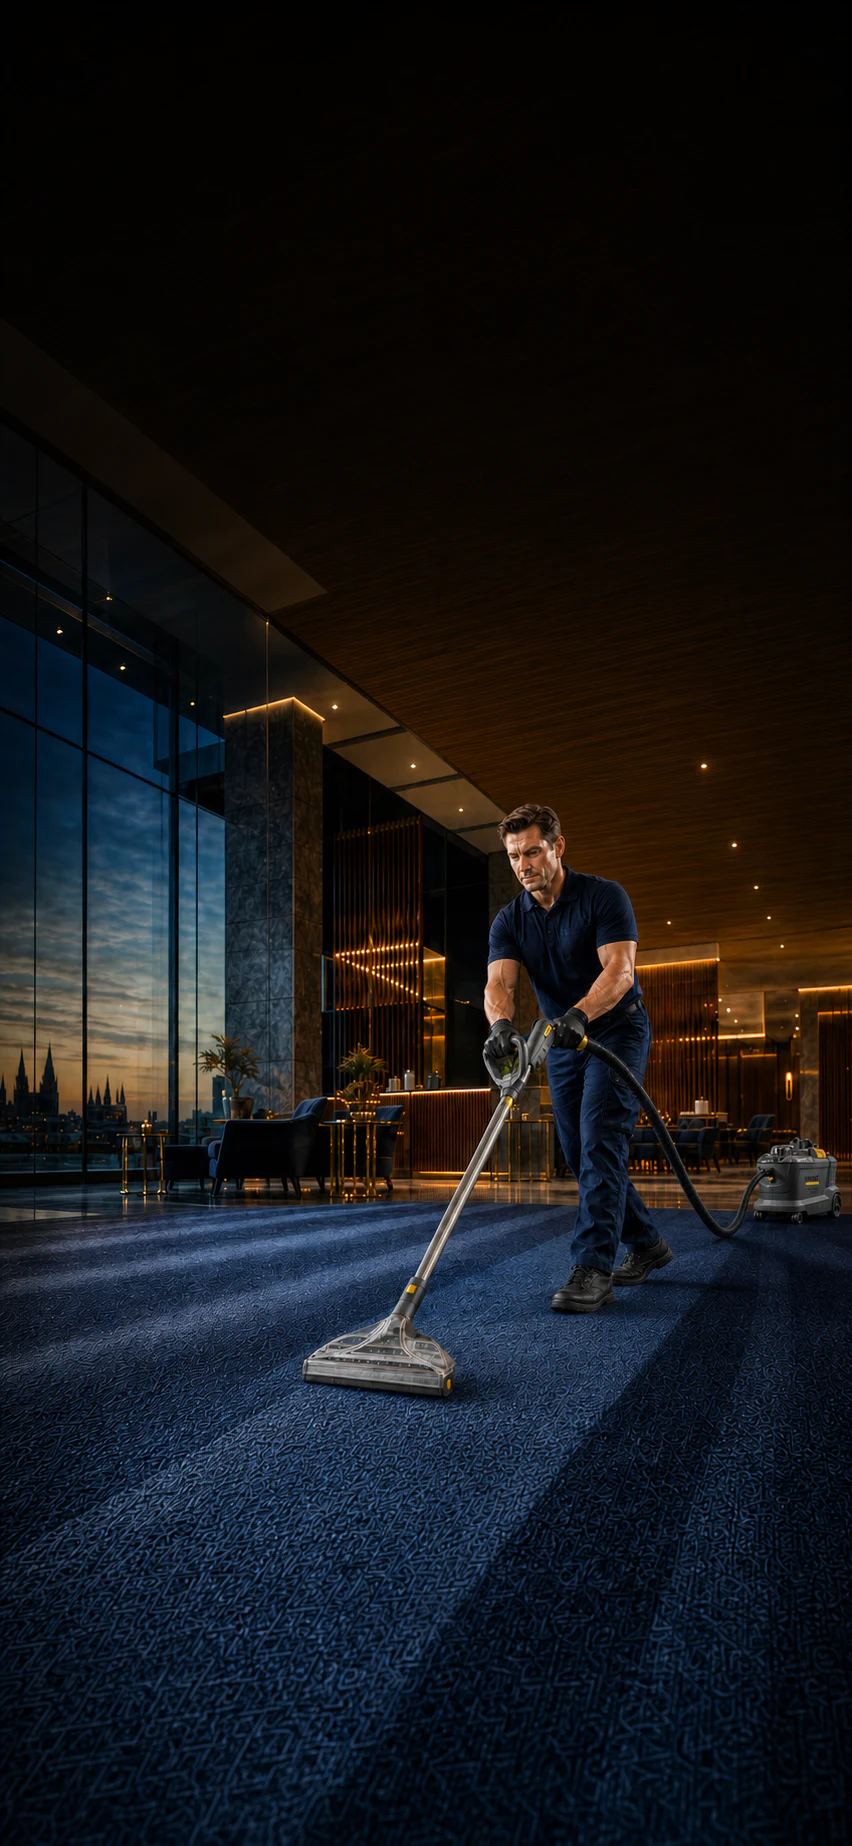
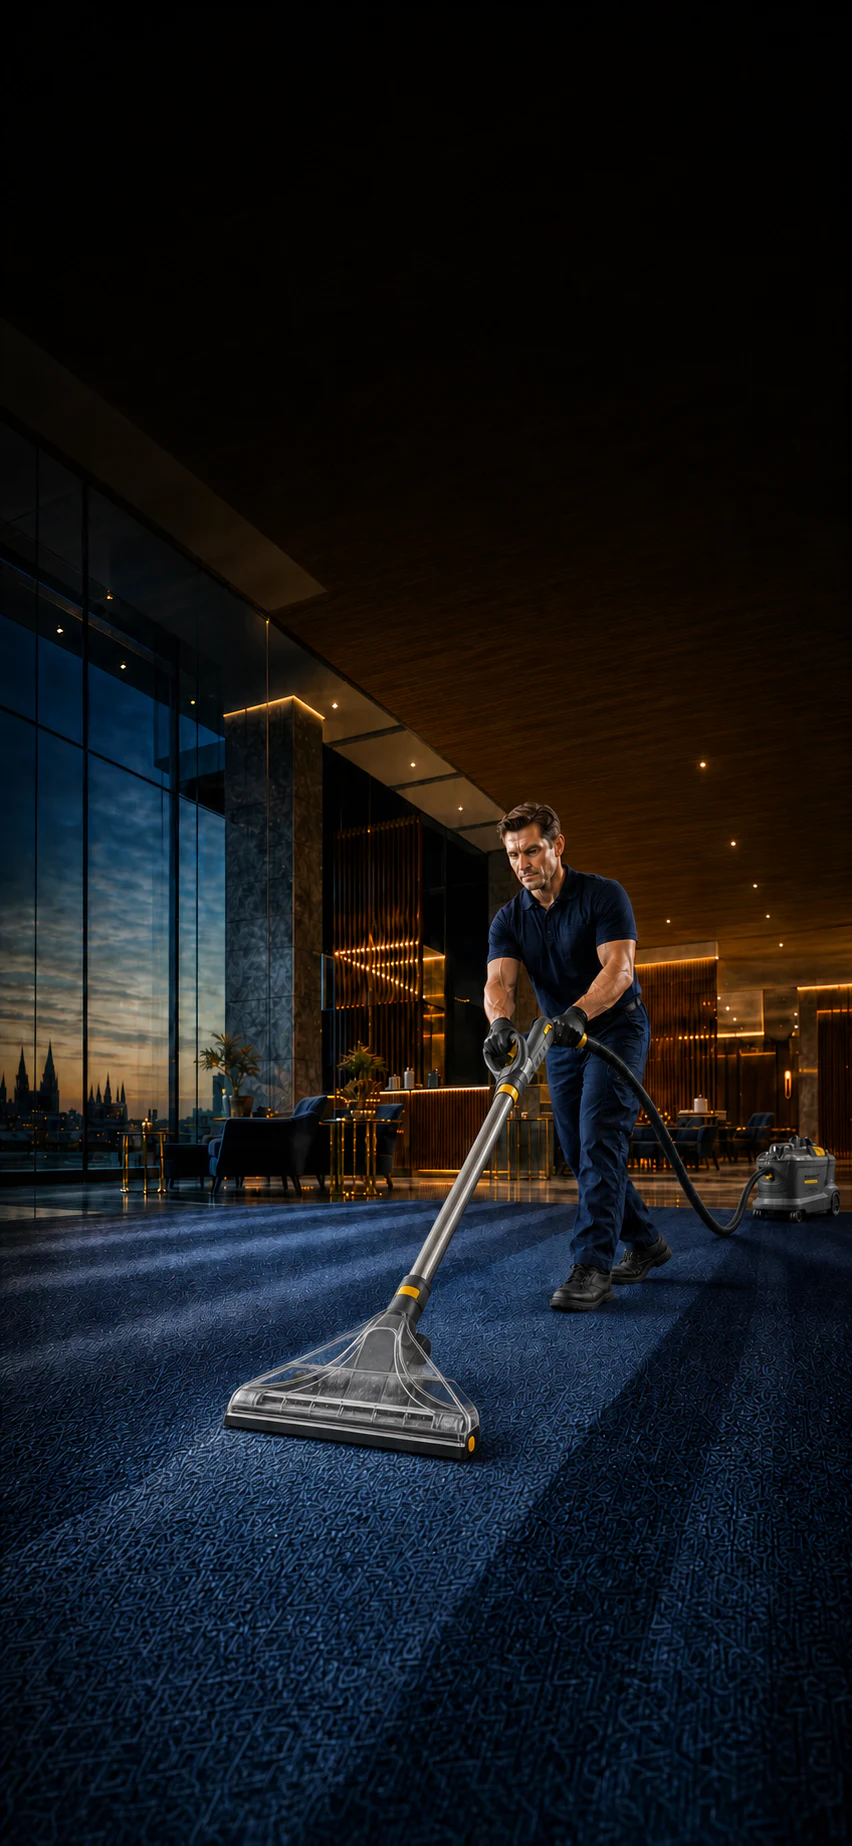
Add approved neon slogan to business homepage
Refresh the business hero with responsive imagery and the approved “THE BEST QUALITY. FOR LESS.” neon slogan.

Changed region(s): [[0.0, 0.4323, 1.0, 0.9572], [0.2746, 0.3705, 0.3662, 0.4014], [0.0305, 0.5249, 0.061, 0.5867]]

diff --git a/src/pages/CommercialCleaningWinchester.module.css b/src/pages/CommercialCleaningWinchester.module.css
@@ -143,26 +143,21 @@
 .heroDomain {
   position: absolute;
   right: clamp(1.5rem, 4vw, 4rem);
-  bottom: 1.5rem;
+  bottom: clamp(1.25rem, 3vw, 2rem);
   z-index: 2;
   margin: 0;
-  padding: 0.5rem 0.8rem;
-  border: 1px solid rgba(125, 211, 252, 0.42);
-  border-radius: 999px;
-  background: rgba(4, 14, 29, 0.68);
-  box-shadow:
-    inset 0 0 16px rgba(56, 189, 248, 0.1),
-    0 0 20px rgba(14, 165, 233, 0.2);
-  color: #eefaff;
-  font-family: "Trebuchet MS", Arial, sans-serif;
-  font-size: clamp(0.9rem, 1.6vw, 1.15rem);
-  font-weight: 900;
-  letter-spacing: 0.16em;
-  text-transform: lowercase;
+  color: #b9f3ff;
+  font-family: Georgia, "Times New Roman", serif;
+  font-size: clamp(1rem, 2vw, 1.45rem);
+  font-style: italic;
+  font-weight: 600;
+  letter-spacing: 0.12em;
+  text-transform: uppercase;
   text-shadow:
-    0 0 5px rgba(255, 255, 255, 0.85),
-    0 0 10px rgba(92, 200, 255, 0.95),
-    0 0 22px rgba(14, 165, 233, 0.62);
+    0 0 4px rgba(255, 255, 255, 0.95),
+    0 0 10px rgba(91, 220, 255, 0.95),
+    0 0 22px rgba(14, 165, 233, 0.72),
+    0 0 42px rgba(14, 165, 233, 0.45);
 }
 
 .section {
@@ -554,9 +549,10 @@
     right: auto;
     bottom: 1.25rem;
     left: 50%;
-    padding: 0.65rem 1.35rem;
-    font-size: 1.55rem;
-    letter-spacing: 0.1em;
+    width: calc(100% - 2rem);
+    font-size: clamp(0.72rem, 3.2vw, 0.95rem);
+    letter-spacing: 0.08em;
+    text-align: center;
     transform: translateX(-50%);
     white-space: nowrap;
   }

diff --git a/src/components/sections/Services/services.data.ts b/src/components/sections/Services/services.data.ts
@@ -1,5 +1,5 @@
-import carpetImage from "../../../assets/optimized/carpet-cleaning.webp";
-import upholsteryImage from "../../../assets/images/services/upholstery-cleaning.png";
+import carpetImage from "../../../assets/optimized/carpet-cleaning-v2.webp";
+import upholsteryImage from "../../../assets/optimized/upholstery-cleaning-v2.webp";
 import mattressImage from "../../../assets/optimized/mattress-cleaning.webp";
 import steamImage from "../../../assets/optimized/servicessteam-cleaning.webp.webp";
 

diff --git a/src/pages/CommercialCleaningWinchester.tsx b/src/pages/CommercialCleaningWinchester.tsx
@@ -152,7 +152,7 @@ export default function CommercialCleaningWinchester() {
             </div>
           </Container>
         </div>
-        <p className={styles.heroDomain}>robigo.co.uk</p>
+        <p className={styles.heroDomain}>The best quality. For less.</p>
       </section>
 
       <section className={styles.section}>
